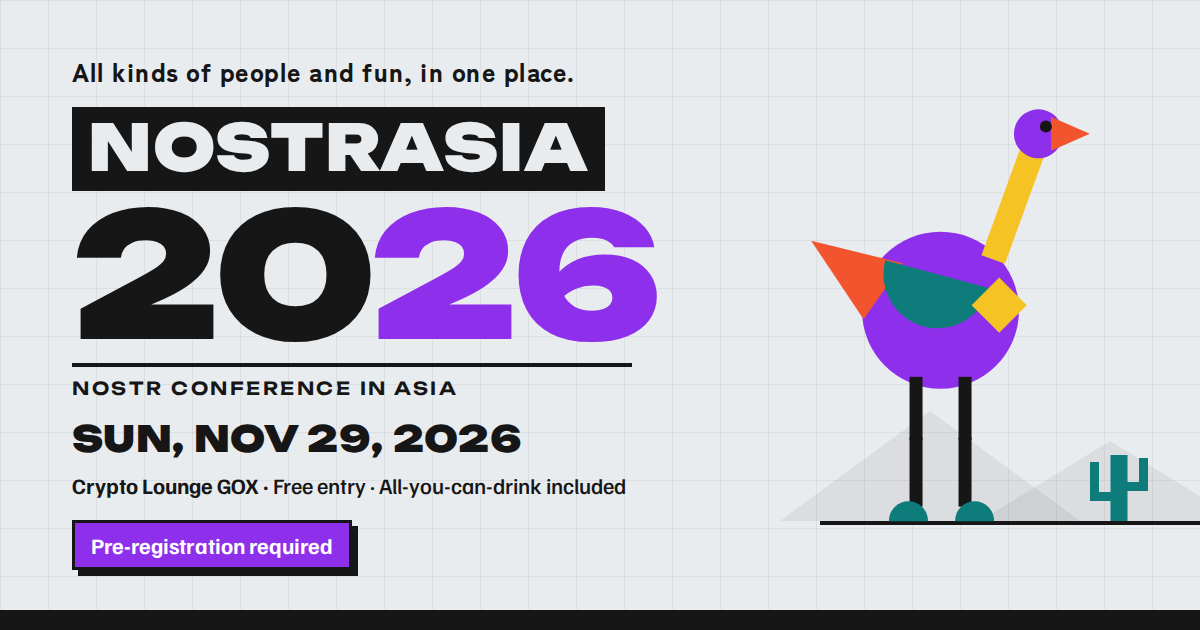
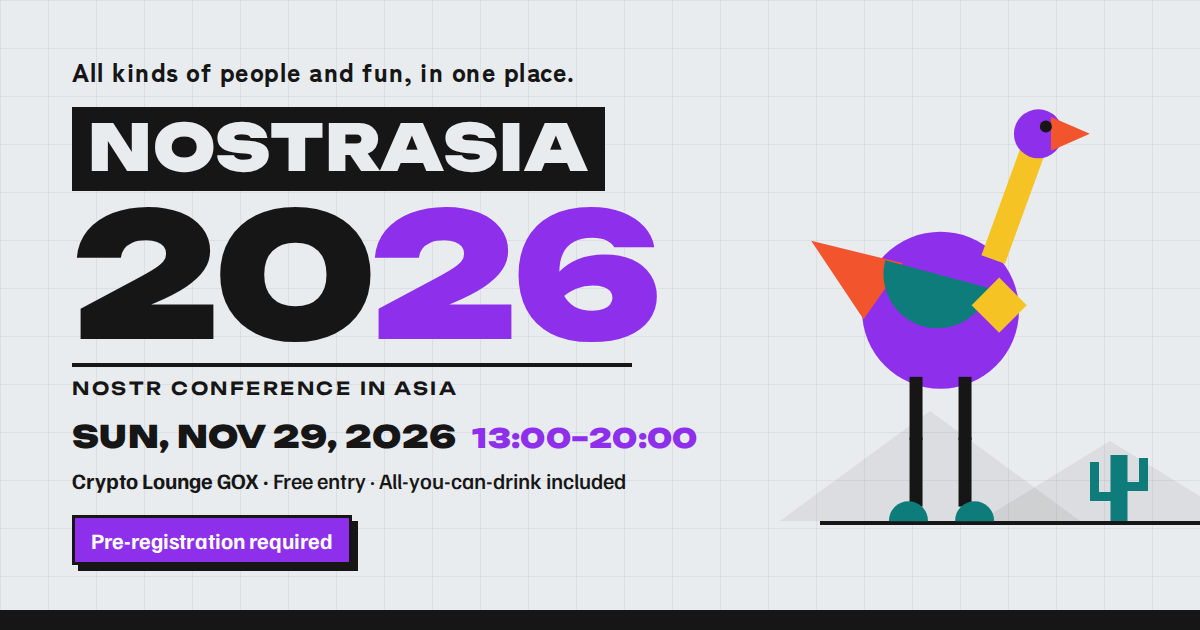
feat: 開始 13:00・終了 20:00 を載せ、ハッシュタグの「（案）」を外す
- startTime / endTime に 13:00 / 20:00 を入れ、timeRange2026() を追加
- ヒーローの日付の横、開催概要の DATE、FAQ「いつ・どこで」、タイムテーブルの膜に時刻を出す
- タイムテーブルの中身は前後する予定のため、膜（TBD）はそのまま
- ハッシュタグ #nostrasia2026 の「（案）」を外す
- OGP の説明文・代替テキスト・画像（ja / en）に時刻を足す

Closes #34

Claude-Session: https://claude.ai/code/session_01C5nYi3Ux7mAbDux2fUKRpu

Changed region(s): [[0.0617, 0.6635, 0.5858, 0.7238], [0.0617, 0.8143, 0.3083, 0.9349], [0.0617, 0.754, 0.5242, 0.7841]]

diff --git a/design/2026/ogp-en.html b/design/2026/ogp-en.html
@@ -11,6 +11,9 @@ body{background:#e9ecef;background-image:linear-gradient(rgba(22,22,22,.06) 1px,
 .y b{color:#8e30eb}
 .tag{font:600 18px/1 Unbounded;letter-spacing:.14em;border-top:4px solid #161616;padding-top:12px;margin-top:14px;width:560px}
 .date{font:900 36px/1 Unbounded;margin-top:24px;letter-spacing:.01em}
+
+.en .date{font-size:31px}
+.date .tm{margin-left:16px;color:#8e30eb;font-size:.86em;white-space:nowrap}
 .ja .date{font-family:Unbounded,'Zen Kaku Gothic New'}
 .meta{font-size:22px;font-weight:700;margin-top:12px;line-height:1.5}
 .meta span{font-weight:500}
@@ -31,7 +34,7 @@ body{background:#e9ecef;background-image:linear-gradient(rgba(22,22,22,.06) 1px,
 <i class="mt" style="left:780px;width:300px;height:110px"></i><i class="mt" style="left:980px;width:260px;height:80px"></i>
 <div class="ground"></div><span class="cac"><i></i></span>
 <div class="txt"><p class="catch">All kinds of people and fun, in one place.</p><span class="n">NOSTRASIA</span><span class="y">20<b>26</b></span>
-<p class="tag">NOSTR CONFERENCE IN ASIA</p><p class="date">SUN, NOV 29, 2026</p>
+<p class="tag">NOSTR CONFERENCE IN ASIA</p><p class="date">SUN, NOV 29, 2026<span class="tm">13:00–20:00</span></p>
 <p class="meta">Crypto Lounge GOX · <span>Free entry · All-you-can-drink included</span></p><span class="pill">Pre-registration required</span></div>
 <div class="stage"><i class="s c" style="--c:#8E30EB;--w:32;--h:32;--fx:-4;--fy:6;--fr:0"></i><i class="s t" style="--c:#F2542D;--w:14;--h:18;--fx:-23;--fy:-3;--fr:-55"></i><i class="s h" style="--c:#0E7C7B;--w:22;--h:11;--fx:-6;--fy:4;--fr:195"></i><i class="s q" style="--c:#F6C324;--w:8;--h:8;--fx:8;--fy:5;--fr:45"></i><i class="s q" style="--c:#F6C324;--w:5;--h:28;--fx:11.5;--fy:-17.5;--fr:20"></i><i class="s c" style="--c:#8E30EB;--w:10;--h:10;--fx:16;--fy:-30;--fr:0"></i><i class="s t" style="--c:#F2542D;--w:7;--h:8;--fx:22.5;--fy:-30;--fr:90"></i><i class="s c" style="--c:#161616;--w:2.4;--h:2.4;--fx:17.5;--fy:-31.5;--fr:0"></i><i class="s q" style="--c:#161616;--w:2.6;--h:12.8;--fx:-9;--fy:26;--fr:0"></i><i class="s q" style="--c:#161616;--w:2.6;--h:12.8;--fx:1;--fy:26;--fr:0"></i><i class="s q" style="--c:#161616;--w:2.6;--h:14;--fx:-9;--fy:39;--fr:0"></i><i class="s q" style="--c:#161616;--w:2.6;--h:14;--fx:1;--fy:39;--fr:0"></i><i class="s h" style="--c:#0E7C7B;--w:8;--h:4;--fx:-10.5;--fy:47;--fr:0"></i><i class="s h" style="--c:#0E7C7B;--w:8;--h:4;--fx:3;--fy:47;--fr:0"></i></div>
 <div class="bar"></div></body></html>

diff --git a/design/2026/ogp-ja.html b/design/2026/ogp-ja.html
@@ -11,6 +11,8 @@ body{background:#e9ecef;background-image:linear-gradient(rgba(22,22,22,.06) 1px,
 .y b{color:#8e30eb}
 .tag{font:600 18px/1 Unbounded;letter-spacing:.14em;border-top:4px solid #161616;padding-top:12px;margin-top:14px;width:560px}
 .date{font:900 36px/1 Unbounded;margin-top:24px;letter-spacing:.01em}
+
+.date .tm{margin-left:16px;color:#8e30eb;font-size:.86em;white-space:nowrap}
 .ja .date{font-family:Unbounded,'Zen Kaku Gothic New'}
 .meta{font-size:22px;font-weight:700;margin-top:12px;line-height:1.5}
 .meta span{font-weight:500}
@@ -31,7 +33,7 @@ body{background:#e9ecef;background-image:linear-gradient(rgba(22,22,22,.06) 1px,
 <i class="mt" style="left:780px;width:300px;height:110px"></i><i class="mt" style="left:980px;width:260px;height:80px"></i>
 <div class="ground"></div><span class="cac"><i></i></span>
 <div class="txt"><p class="catch">いろんな人と遊びが、1 か所に集まる。</p><span class="n">NOSTRASIA</span><span class="y">20<b>26</b></span>
-<p class="tag">NOSTR CONFERENCE IN ASIA</p><p class="date">2026.11.29（日）</p>
+<p class="tag">NOSTR CONFERENCE IN ASIA</p><p class="date">2026.11.29（日）<span class="tm">13:00–20:00</span></p>
 <p class="meta">Crypto Lounge GOX ・ <span>参加費 無料（ドリンク飲み放題つき）</span></p><span class="pill">事前エントリー制</span></div>
 <div class="stage"><i class="s c" style="--c:#8E30EB;--w:32;--h:32;--fx:-4;--fy:6;--fr:0"></i><i class="s t" style="--c:#F2542D;--w:14;--h:18;--fx:-23;--fy:-3;--fr:-55"></i><i class="s h" style="--c:#0E7C7B;--w:22;--h:11;--fx:-6;--fy:4;--fr:195"></i><i class="s q" style="--c:#F6C324;--w:8;--h:8;--fx:8;--fy:5;--fr:45"></i><i class="s q" style="--c:#F6C324;--w:5;--h:28;--fx:11.5;--fy:-17.5;--fr:20"></i><i class="s c" style="--c:#8E30EB;--w:10;--h:10;--fx:16;--fy:-30;--fr:0"></i><i class="s t" style="--c:#F2542D;--w:7;--h:8;--fx:22.5;--fy:-30;--fr:90"></i><i class="s c" style="--c:#161616;--w:2.4;--h:2.4;--fx:17.5;--fy:-31.5;--fr:0"></i><i class="s q" style="--c:#161616;--w:2.6;--h:12.8;--fx:-9;--fy:26;--fr:0"></i><i class="s q" style="--c:#161616;--w:2.6;--h:12.8;--fx:1;--fy:26;--fr:0"></i><i class="s q" style="--c:#161616;--w:2.6;--h:14;--fx:-9;--fy:39;--fr:0"></i><i class="s q" style="--c:#161616;--w:2.6;--h:14;--fx:1;--fy:39;--fr:0"></i><i class="s h" style="--c:#0E7C7B;--w:8;--h:4;--fx:-10.5;--fy:47;--fr:0"></i><i class="s h" style="--c:#0E7C7B;--w:8;--h:4;--fx:3;--fy:47;--fr:0"></i></div>
 <div class="bar"></div></body></html>

diff --git a/app/routes/_index.tsx b/app/routes/_index.tsx
@@ -16,12 +16,12 @@ import type { LinksFunction, MetaFunction } from '@remix-run/node'
 
 // 共有されたときに出る説明。app/data/2026.ts の確定情報（日付・会場・参加費・事前エントリー）と揃える
 const DESCRIPTION = {
-  ja: 'Nostr のカンファレンス Nostrasia 2026。2026 年 11 月 29 日（日）、Crypto Lounge GOX で開催。参加費無料（ドリンク飲み放題つき）、参加には事前エントリーが必要です。',
-  en: 'Nostrasia 2026, a Nostr conference in Asia. Sunday, November 29, 2026 at Crypto Lounge GOX. Free entry with all-you-can-drink included. Pre-registration required.',
+  ja: 'Nostr のカンファレンス Nostrasia 2026。2026 年 11 月 29 日（日）13:00〜20:00、Crypto Lounge GOX で開催。参加費無料（ドリンク飲み放題つき）、参加には事前エントリーが必要です。',
+  en: 'Nostrasia 2026, a Nostr conference in Asia. Sunday, November 29, 2026, 13:00–20:00 at Crypto Lounge GOX. Free entry with all-you-can-drink included. Pre-registration required.',
 }
 const OG_ALT = {
-  ja: 'NOSTRASIA 2026。2026.11.29（日）、Crypto Lounge GOX、参加費無料、事前エントリー制',
-  en: 'NOSTRASIA 2026. Sun, Nov 29, 2026, Crypto Lounge GOX. Free entry, pre-registration required',
+  ja: 'NOSTRASIA 2026。2026.11.29（日）13:00–20:00、Crypto Lounge GOX、参加費無料、事前エントリー制',
+  en: 'NOSTRASIA 2026. Sun, Nov 29, 2026, 13:00–20:00, Crypto Lounge GOX. Free entry, pre-registration required',
 }
 
 export const meta: MetaFunction = ({ matches }) => {

diff --git a/app/data/2026.ts b/app/data/2026.ts
@@ -42,8 +42,8 @@ export const EVENT_2026 = {
   /** 開催日 'YYYY-MM-DD'。未定は null → 「2026.??.??」 */
   date: '2026-11-29' as string | null,
   /** 開始・終了・開場時刻 'HH:MM'。未定は null → 「--:--」 */
-  startTime: null as string | null,
-  endTime: null as string | null,
+  startTime: '13:00' as string | null,
+  endTime: '20:00' as string | null,
   doorsOpen: null as string | null,
   /** 会場。未定は null → 「会場 調整中」 */
   venue: {
@@ -81,7 +81,7 @@ export const EVENT_2026 = {
    */
   contactUrl:
     'https://docs.google.com/forms/d/e/1FAIpQLSfOPMX1EwMlH5J9BsPft2yylspYeNoBScf0kAzN8ETUX-CBcg/viewform',
-  /** ハッシュタグ（案）。TODO(要確認) */
+  /** ハッシュタグ */
   hashtag: 'nostrasia2026',
   /**
    * ヒーロー背面に重ねる生成動画。未作成のあいだは null（video 要素を出さない）。
@@ -130,6 +130,12 @@ export const formatDate2026 = (date: string | null) =>
 
 /** 表示用ヘルパー: 'HH:MM'、未定は '--:--' */
 export const formatTime = (time: string | null) => time ?? '--:--'
+
+/** 開始〜終了（例 13:00–20:00）。どちらかが未定なら null */
+export const timeRange2026 = () =>
+  EVENT_2026.startTime && EVENT_2026.endTime
+    ? `${EVENT_2026.startTime}–${EVENT_2026.endTime}`
+    : null
 
 /** 表示用ヘルパー: 'YYYY-MM-DD' の曜日。タイムゾーンに左右されないよう UTC で計算する。未定は null */
 export const weekday2026 = (date: string | null, lang: 'ja' | 'en') => {

diff --git a/app/components/2026/Hero.tsx b/app/components/2026/Hero.tsx
@@ -1,7 +1,7 @@
 import { CSSProperties, useEffect, useRef, useState } from 'react'
 import { useTranslation } from 'react-i18next'
 
-import { EVENT_2026 } from '~/data/2026'
+import { EVENT_2026, timeRange2026 } from '~/data/2026'
 import { useDateLabel, useLocalized } from '~/hooks/useLocalized'
 import { hydratedLate } from '~/hooks/useRevealOnce'
 
@@ -42,6 +42,7 @@ export const Hero = () => {
   const { t } = useTranslation()
   const localized = useLocalized()
   const dateLabel = useDateLabel()
+  const timeRange = timeRange2026()
   const [phase, setPhase] = useState<Phase>('build')
   // reduced-motion・no-hydrate: 歩かせず、四散もさせない（ゲームは本人が始めるので遊べる）
   const [still, setStill] = useState(false)
@@ -159,6 +160,7 @@ export const Hero = () => {
         </h1>
         <p className="date">
           {dateLabel(EVENT_2026.date)}
+          {timeRange && <b className="time">{timeRange}</b>}
           <span>
             {t('hero.place', {
               venue,

diff --git a/app/components/2026/TimeTable.tsx b/app/components/2026/TimeTable.tsx
@@ -1,6 +1,8 @@
 import { CSSProperties } from 'react'
 import { useTranslation } from 'react-i18next'
 
+import { EVENT_2026, timeRange2026 } from '~/data/2026'
+
 import { useRevealOnce } from '~/hooks/useRevealOnce'
 
 import { SectionHead } from './SectionHead'
@@ -109,7 +111,17 @@ export const TimeTable = () => {
             <p className="note">{t('timetable.note')}</p>
           </>
         ) : (
-          <Veil title={t('timetable.tbd')} sub={t('timetable.veilSub')}>
+          <Veil
+            title={t('timetable.tbd')}
+            sub={
+              timeRange2026()
+                ? t('timetable.veilSubHours', {
+                    start: EVENT_2026.startTime,
+                    end: EVENT_2026.endTime,
+                  })
+                : t('timetable.veilSub')
+            }
+          >
             <div className="tt-scroll">
               <div ref={ref} className={shown ? 'gantt in' : 'gantt'}>
                 <div className="axis">

diff --git a/app/components/2026/About.tsx b/app/components/2026/About.tsx
@@ -1,6 +1,6 @@
 import { useTranslation } from 'react-i18next'
 
-import { EVENT_2026 } from '~/data/2026'
+import { EVENT_2026, timeRange2026 } from '~/data/2026'
 import { useDateLabel, useLocalized } from '~/hooks/useLocalized'
 
 import { SectionHead } from './SectionHead'
@@ -38,7 +38,10 @@ export const About = () => {
           <dl className="ov">
             <div>
               <dt>{t('about.date')}</dt>
-              <dd className="m">{dateLabel(EVENT_2026.date)}</dd>
+              <dd className="m">
+                {dateLabel(EVENT_2026.date)}
+                {timeRange2026() && <small>{timeRange2026()}</small>}
+              </dd>
             </div>
             <div>
               <dt>{t('about.venue')}</dt>

diff --git a/app/components/2026/Faq.tsx b/app/components/2026/Faq.tsx
@@ -1,6 +1,6 @@
 import { useTranslation } from 'react-i18next'
 
-import { EVENT_2026 } from '~/data/2026'
+import { EVENT_2026, timeRange2026 } from '~/data/2026'
 import { useDateLabel, useLocalized } from '~/hooks/useLocalized'
 
 import { SectionHead } from './SectionHead'
@@ -23,6 +23,7 @@ export const Faq = () => {
   } = EVENT_2026
   const vars = {
     date: dateLabel(date),
+    time: timeRange2026() ?? '',
     venue: venue ? localized(venue.name) : '',
     fee: fee ? localized(fee) : '',
     note: feeNote ? localized(feeNote) : '',

diff --git a/app/2026.css b/app/2026.css
@@ -343,6 +343,14 @@ html.js .n26.menu-open .gnav li {
   font: var(--t-num);
   letter-spacing: var(--t-num-ls);
 }
+/* 時刻は日付のあとに続け、入りきらなければ丸ごと次の行へ */
+.n26 .date .time {
+  display: inline-block;
+  margin-left: 0.4em;
+  font: inherit;
+  letter-spacing: inherit;
+  white-space: nowrap;
+}
 .n26 .date span {
   display: block;
   font: var(--t-cap);
